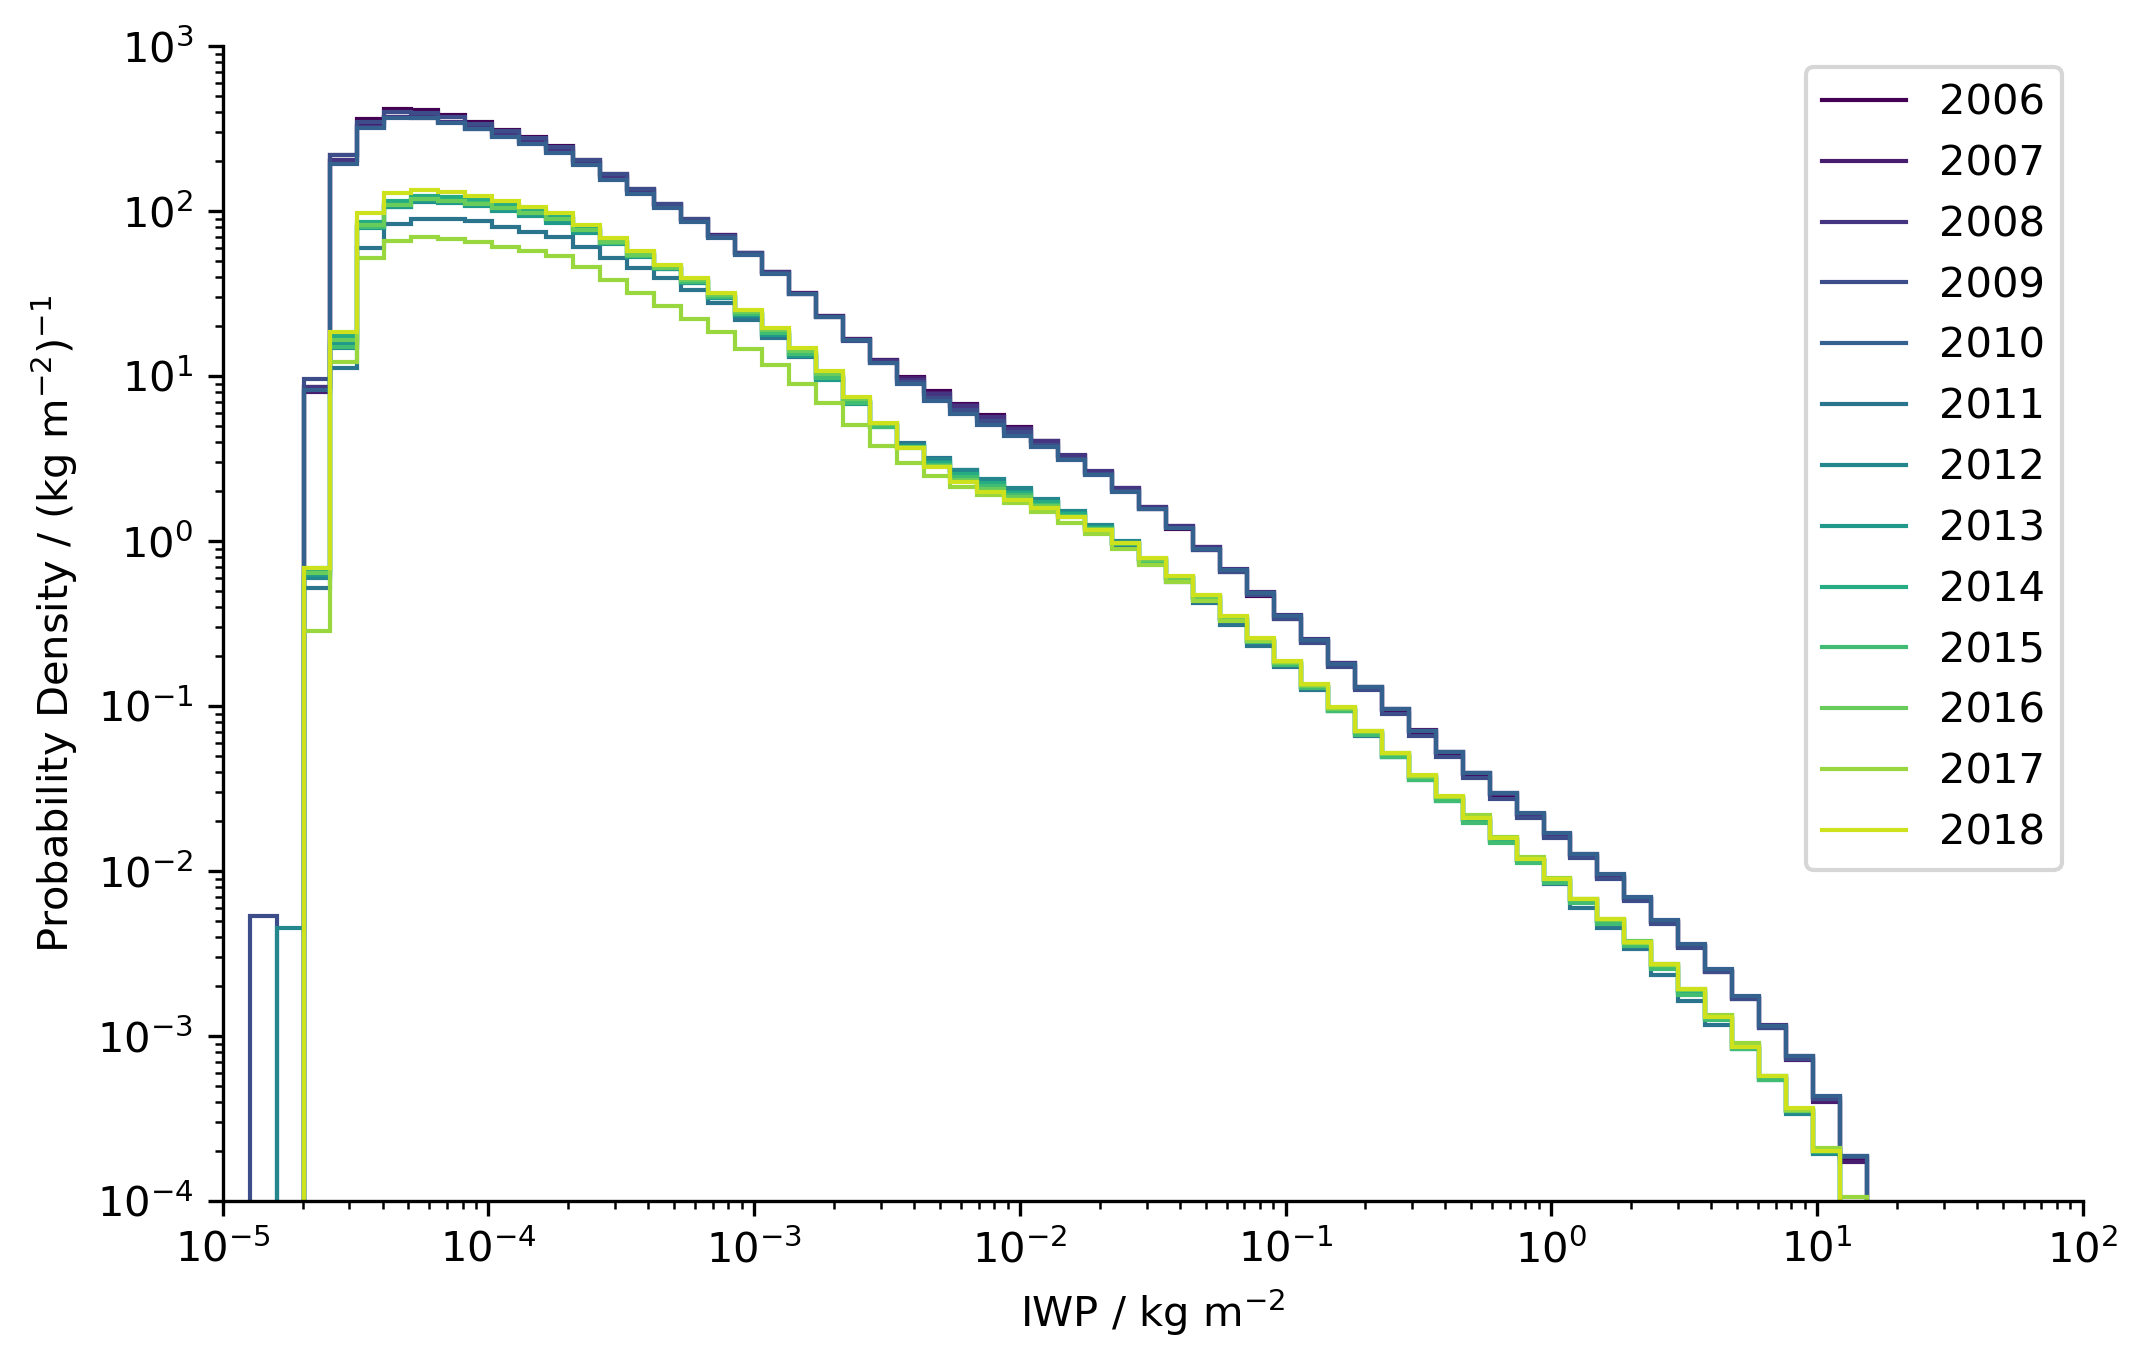
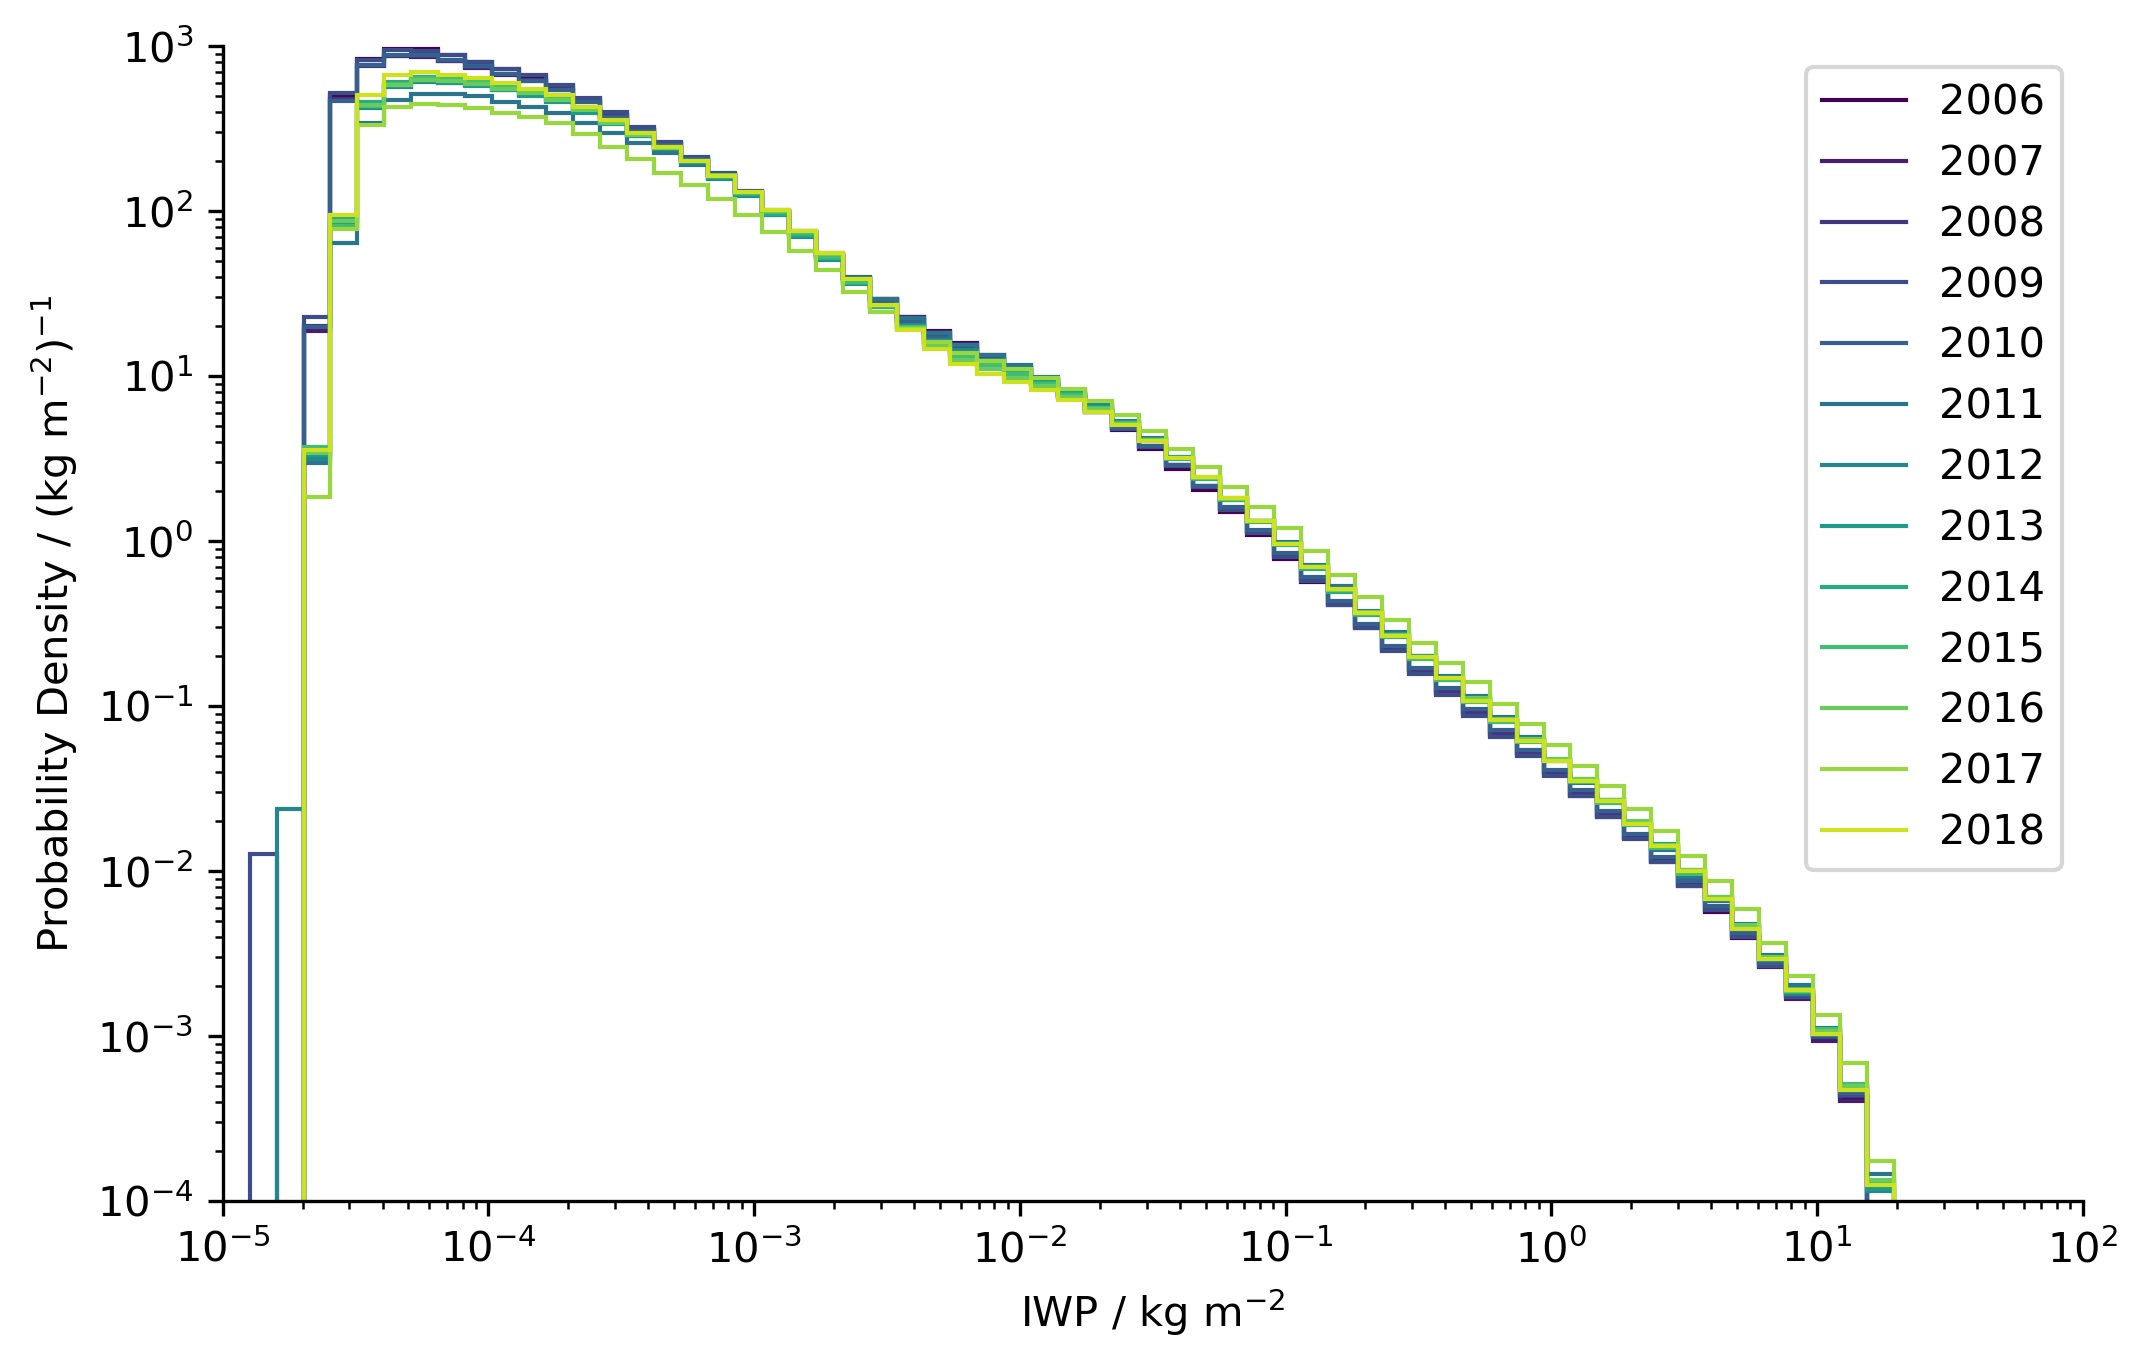
plot profiles from freddi

Changed region(s): [[0.1248, 0.0307, 0.9046, 0.8904]]

diff --git a/plot_profiles_freddi.py b/plot_profiles_freddi.py
@@ -1,0 +1,130 @@
+# %%
+import xarray as xr
+import matplotlib.pyplot as plt
+import numpy as np
+import cartopy.crs as ccrs  
+
+# %% load data from freddis runs
+path_freddi = "/work/bm1183/m301049/freddi_runs/"
+atms = xr.open_dataset(path_freddi + "atms.nc")
+fluxes_3d = xr.open_dataset(path_freddi + "fluxes_3d.nc")
+fluxes_2d = xr.open_dataset(path_freddi + "fluxes_2d.nc")
+aux = xr.open_dataset(path_freddi + "aux.nc")
+
+# %% calculate IWP and LWP
+cell_height = atms["geometric height"].diff("pressure")
+atms["IWP"] = ((atms["IWC"] + atms["snow"] + atms["graupel"]) * cell_height).sum("pressure")
+atms["LWP"] = ((atms["rain"] + atms["LWC"]) * cell_height).sum("pressure")
+
+# %% find high clouds with no low clouds below
+mask_hc_no_lc = (atms["IWP"] > 1) & (atms["LWP"] < 0.1)
+lon_3d, lat_3d = np.meshgrid(atms["lon"], atms["lat"])
+lons = lon_3d[mask_hc_no_lc]
+lats = lat_3d[mask_hc_no_lc]
+
+# %% plot location of profiles
+fig, ax = plt.subplots(figsize=(8, 5), subplot_kw={"projection": ccrs.PlateCarree()})
+ax.spines["top"].set_visible(False)
+ax.spines["right"].set_visible(False)
+
+ax.scatter(lons, lats, s=0.1, color="black")
+ax.coastlines()
+gl = ax.gridlines(draw_labels=True)
+gl.top_labels = False
+gl.right_labels = False
+
+# %% select random profile from sample
+
+raw_lat = 0
+raw_lon = -1
+
+idx_lat = np.argmin(np.abs(lats - raw_lat))
+idx_lon = np.argmin(np.abs(lons - raw_lon))
+lat = lats[idx_lat]
+lon = lons[idx_lon]
+
+# %%  plot profiles at point
+
+
+def plot_profiles(lat, lon):
+    fig, axes = plt.subplots(2, 4, figsize=(10, 10), sharey="row")
+    data = atms.sel(lat=lat, lon=lon, method="nearest")
+    fluxes = fluxes_3d.sel(lat=lat, lon=lon, method="nearest")
+    flx_2d = fluxes_2d.sel(lat=lat, lon=lon, method="nearest")
+    height = data["geometric height"] / 1e3
+
+    # plot frozen hydrometeors
+    axes[0, 0].plot(data["IWC"], height, label="IWC", color="k")
+    axes[0, 0].plot(data["snow"], height, label="snow", color="k", linestyle="--")
+    axes[0, 0].plot(data["graupel"], height, label="graupel", color="k", linestyle=":")
+    axes[0, 0].set_ylabel("height / km")
+    axes[0, 0].set_xlabel("F. Hyd. / kg m$^{-3}$")
+    axes[0, 0].legend()
+
+    # plot liquid hydrometeors
+    axes[0, 1].plot(data["LWC"], height, label="LWC", color="k")
+    axes[0, 1].plot(data["rain"], height, label="rain", color="k", linestyle="--")
+    axes[0, 1].set_xlabel("L. Hyd. / kg m$^{-3}$")
+    axes[0, 1].legend()
+
+    # plot temperature
+    axes[0, 2].plot(data["temperature"], height, color="black")
+    axes[0, 2].set_xlabel("Temperature / K")
+
+    # plot LW fluxes up
+    axes[1, 0].plot(fluxes["allsky_lw_up"], height, label="allsky", color="k")
+    axes[1, 0].plot(
+        fluxes["clearsky_lw_up"], height, label="clearsky", color="k", linestyle="--"
+    )
+    axes[1, 0].set_ylabel("height / km")
+    axes[1, 0].set_xlabel("LW Up / W m$^{-2}$")
+    axes[1, 0].legend()
+
+    # plot LW fluxes down
+    axes[1, 1].plot(fluxes["allsky_lw_down"], height, label="allsky", color="k")
+    axes[1, 1].plot(
+        fluxes["clearsky_lw_down"], height, label="clearsky", color="k", linestyle="--"
+    )
+    axes[1, 1].set_xlabel("LW Down / W m$^{-2}$")
+    axes[1, 1].legend()
+
+    # plot SW fluxes up
+    axes[1, 2].plot(fluxes["allsky_sw_up"], height, label="allsky", color="k")
+    axes[1, 2].plot(
+        fluxes["clearsky_sw_up"], height, label="clearsky", color="k", linestyle="--"
+    )
+    axes[1, 2].set_xlabel("SW Up / W m$^{-2}$")
+    axes[1, 2].legend()
+
+    # plot SW fluxes down
+    axes[1, 3].plot(fluxes["allsky_sw_down"], height, label="allsky", color="k")
+    axes[1, 3].plot(
+        fluxes["clearsky_sw_down"], height, label="clearsky", color="k", linestyle="--"
+    )
+    axes[1, 3].set_xlabel("SW Down / W m$^{-2}$")
+    axes[1, 3].legend()
+
+    for ax in axes.flatten():
+        ax.set_ylim(0, 20)
+        ax.spines["top"].set_visible(False)
+        ax.spines["right"].set_visible(False)
+
+    # plot coordinates and toa fluxes
+    axes[0, 3].remove()
+    fig.text(
+        0.9,
+        0.8,
+        f"lat: {lat.round(2)}\nlon: {lon.round(2)}",
+        ha="center",
+        va="center",
+        fontsize=11,
+    )
+
+    fig.tight_layout()
+
+
+# %%
+plot_profiles(lat, lon)
+
+
+# %%

diff --git a/2c_ice_variability.py b/2c_ice_variability.py
@@ -30,8 +30,20 @@ def plot_hist(year, ax, bins, linestyle, color):
     hist, edges = np.histogram(
         cloudsat[year]["ice_water_path"] * 1e-3, bins=bins, density=False
     )
-    hist_norm = hist / (np.diff(edges) * len(cloudsat[year]["ice_water_path"]))
+    hist_norm = hist / (
+        np.diff(edges) * len(cloudsat[year]["ice_water_path"]) * (1 - zeros[year])
+    )
     ax.stairs(hist_norm, edges, label=year, linestyle=linestyle, color=color)
+
+
+def calc_hist(year, bins):
+    hist, edges = np.histogram(
+        cloudsat[year]["ice_water_path"] * 1e-3, bins=bins, density=False
+    )
+    hist_norm = hist / (
+        np.diff(edges) * len(cloudsat[year]["ice_water_path"]) * (1 - zeros[year])
+    )
+    return hist_norm, edges
 
 
 def plot_monthly_hists(year, ax, bins, cmap):
@@ -56,8 +68,16 @@ cloudsat = {}
 for year in range(2006, 2019):
     cloudsat[str(year)] = read_cloudsat(str(year))
 
-# %% make histogramms for all years
+# %% get length and percentage of zeros of annual data
+length = {}
+zeros = {}
+for year in range(2006, 2019):
+    length[str(year)] = len(cloudsat[str(year)]["ice_water_path"])
+    zeros[str(year)] = (
+        np.sum(cloudsat[str(year)]["ice_water_path"] == 0) / length[str(year)]
+    )
 
+# %% make histogramms for all years
 fig, ax = plt.subplots(figsize=(8, 5))
 ax.spines["top"].set_visible(False)
 ax.spines["right"].set_visible(False)
@@ -114,14 +134,6 @@ handles, labels = axes[-1].get_legend_handles_labels()
 fig.legend(handles, labels, loc="center right", bbox_to_anchor=(0.95, 0.5), ncol=1)
 fig.savefig("plots/2c_ice_monthly.png", dpi=300, bbox_inches="tight")
 
-# %% get length and percentage of zeros of annual data
-length = {}
-zeros = {}
-for year in range(2006, 2019):
-    length[str(year)] = len(cloudsat[str(year)]["ice_water_path"])
-    zeros[str(year)] = (
-        np.sum(cloudsat[str(year)]["ice_water_path"] == 0) / length[str(year)]
-    )
 
 # %% barplot of percentage of zeros
 fig, ax = plt.subplots(figsize=(5, 3))
@@ -133,7 +145,6 @@ ax.set_ylabel("Share of Zeros")
 fig.savefig("plots/2c_ice_zeros.png", dpi=300, bbox_inches="tight")
 
 # %% Barplot of number of profiles
-
 fig, ax = plt.subplots(figsize=(5, 3))
 ax.spines["top"].set_visible(False)
 ax.spines["right"].set_visible(False)
@@ -141,5 +152,40 @@ ax.spines["right"].set_visible(False)
 ax.bar(x=np.arange(2006, 2019), height=list(length.values()), color="grey")
 ax.set_ylabel("Number of Profiles")
 fig.savefig("plots/2c_ice_n_profiles.png", dpi=300, bbox_inches="tight")
+
+# %% histogram mean and std
+bins = np.logspace(-5, 2, num=70)
+hist = np.zeros((13, len(bins) - 1))
+
+for i, year in enumerate(range(2006, 2019)):
+    hist[i, :], edges = calc_hist(str(year), bins)
+
+hist_mean = hist.mean(axis=0)
+hist_std = hist.std(axis=0)
+
+fig, ax = plt.subplots(figsize=(5, 3))
+ax.spines["top"].set_visible(False)
+ax.spines["right"].set_visible(False)
+
+ax.stairs(hist_mean, edges, color="black", label="Mean")
+ax.stairs(
+    edges=edges,
+    values=hist_mean + 2 * hist_std,
+    baseline=hist_mean - 2 * hist_std,
+    alpha=0.5,
+    label=r"$2 \cdot \sigma $",
+    fill=True,
+    color="grey",
+)
+
+
+ax.set_xscale("log")
+ax.set_yscale("log")
+ax.set_xlim(1e-5, 1e2)
+ax.set_ylim(1e-4, 1e3)
+ax.legend()
+ax.set_xlabel("IWP / kg m$^{-2}$")
+ax.set_ylabel("Probability Density / (kg m$^{-2}$)$^{-1}$")
+fig.savefig("plots/2c_ice_mean_std.png", dpi=300, bbox_inches="tight")
 
 # %%

diff --git a/compare_iwp_hists.py b/compare_iwp_hists.py
@@ -12,10 +12,9 @@ fluxes_3d = xr.open_dataset(path_freddi + "fluxes_3d.nc")
 fluxes_2D = xr.open_dataset(path_freddi + "fluxes_2d.nc")
 aux = xr.open_dataset(path_freddi + "aux.nc")
 
-# claculate IWP
-IWP = ((atms["IWC"] + atms["snow"] + atms["graupel"]) * atms["geometric height"]).sum(
-    "pressure"
-)
+# calculate IWP and LWP
+cell_height = atms["geometric height"].diff("pressure")
+IWP = ((atms["IWC"] + atms["snow"] + atms["graupel"]) * cell_height).sum("pressure")
 
 # %% load cloudsat data for 2015
 path_cloudsat = "/work/bm1183/m301049/cloudsat/"
@@ -27,7 +26,7 @@ cloudsat = cloudsat.to_pandas()
 lat_mask = (cloudsat["lat"] <= 30) & (cloudsat["lat"] >= -30)
 cloudsat_trop = cloudsat[lat_mask]
 
-IWP_trop = IWP.sel(lat=slice(-30, 30), lon=slice())
+IWP_trop = IWP.sel(lat=slice(-30, 30))
 
 # %% calculate share of zeros
 zeros_freddi = float((IWP_trop.where(IWP_trop == 0).count() / IWP_trop.count()).values)

diff --git a/calculate_T_h.py b/calculate_T_h.py
@@ -1,0 +1,18 @@
+# %%
+import xarray as xr
+import matplotlib.pyplot as plt
+import numpy as np
+import cartopy.crs as ccrs  #
+
+# %% load data from freddis runs
+path_freddi = "/work/bm1183/m301049/freddi_runs/"
+atms = xr.open_dataset(path_freddi + "atms.nc")
+fluxes_3d = xr.open_dataset(path_freddi + "fluxes_3d.nc")
+fluxes_2d = xr.open_dataset(path_freddi + "fluxes_2d.nc")
+aux = xr.open_dataset(path_freddi + "aux.nc")
+
+# %% calculate IWP and LWP
+cell_height = atms["geometric height"].diff("pressure")
+atms["IWP"] = ((atms["IWC"] + atms["snow"] + atms["graupel"]) * cell_height).sum("pressure")
+atms["LWP"] = ((atms["rain"] + atms["LWC"]) * cell_height).sum("pressure")
+# %% find maximum of 
